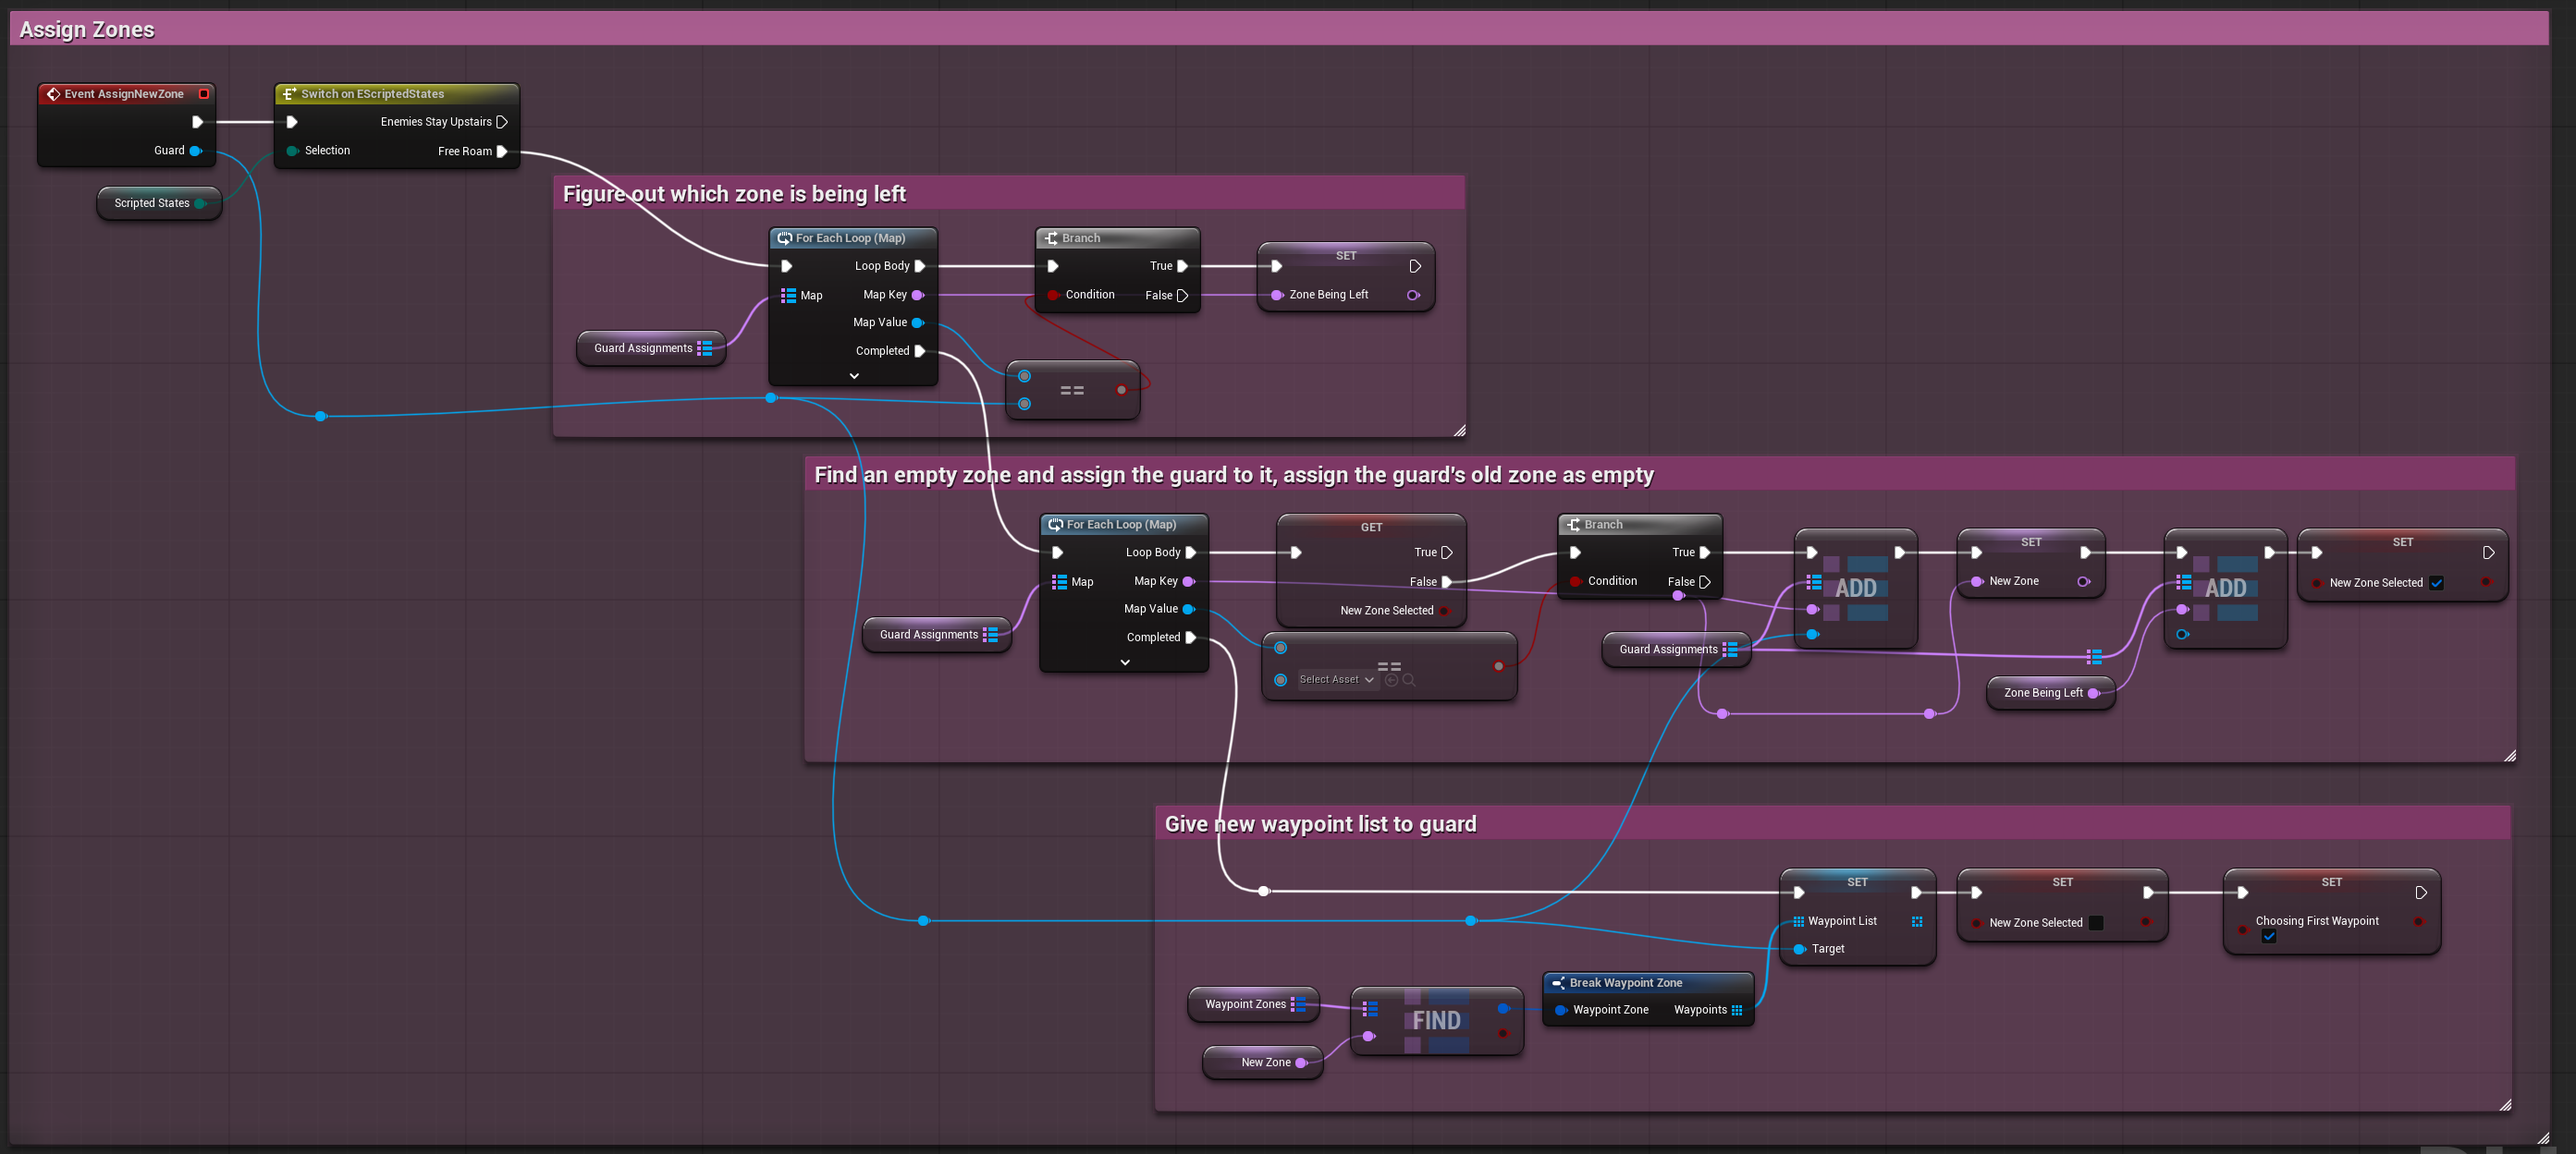
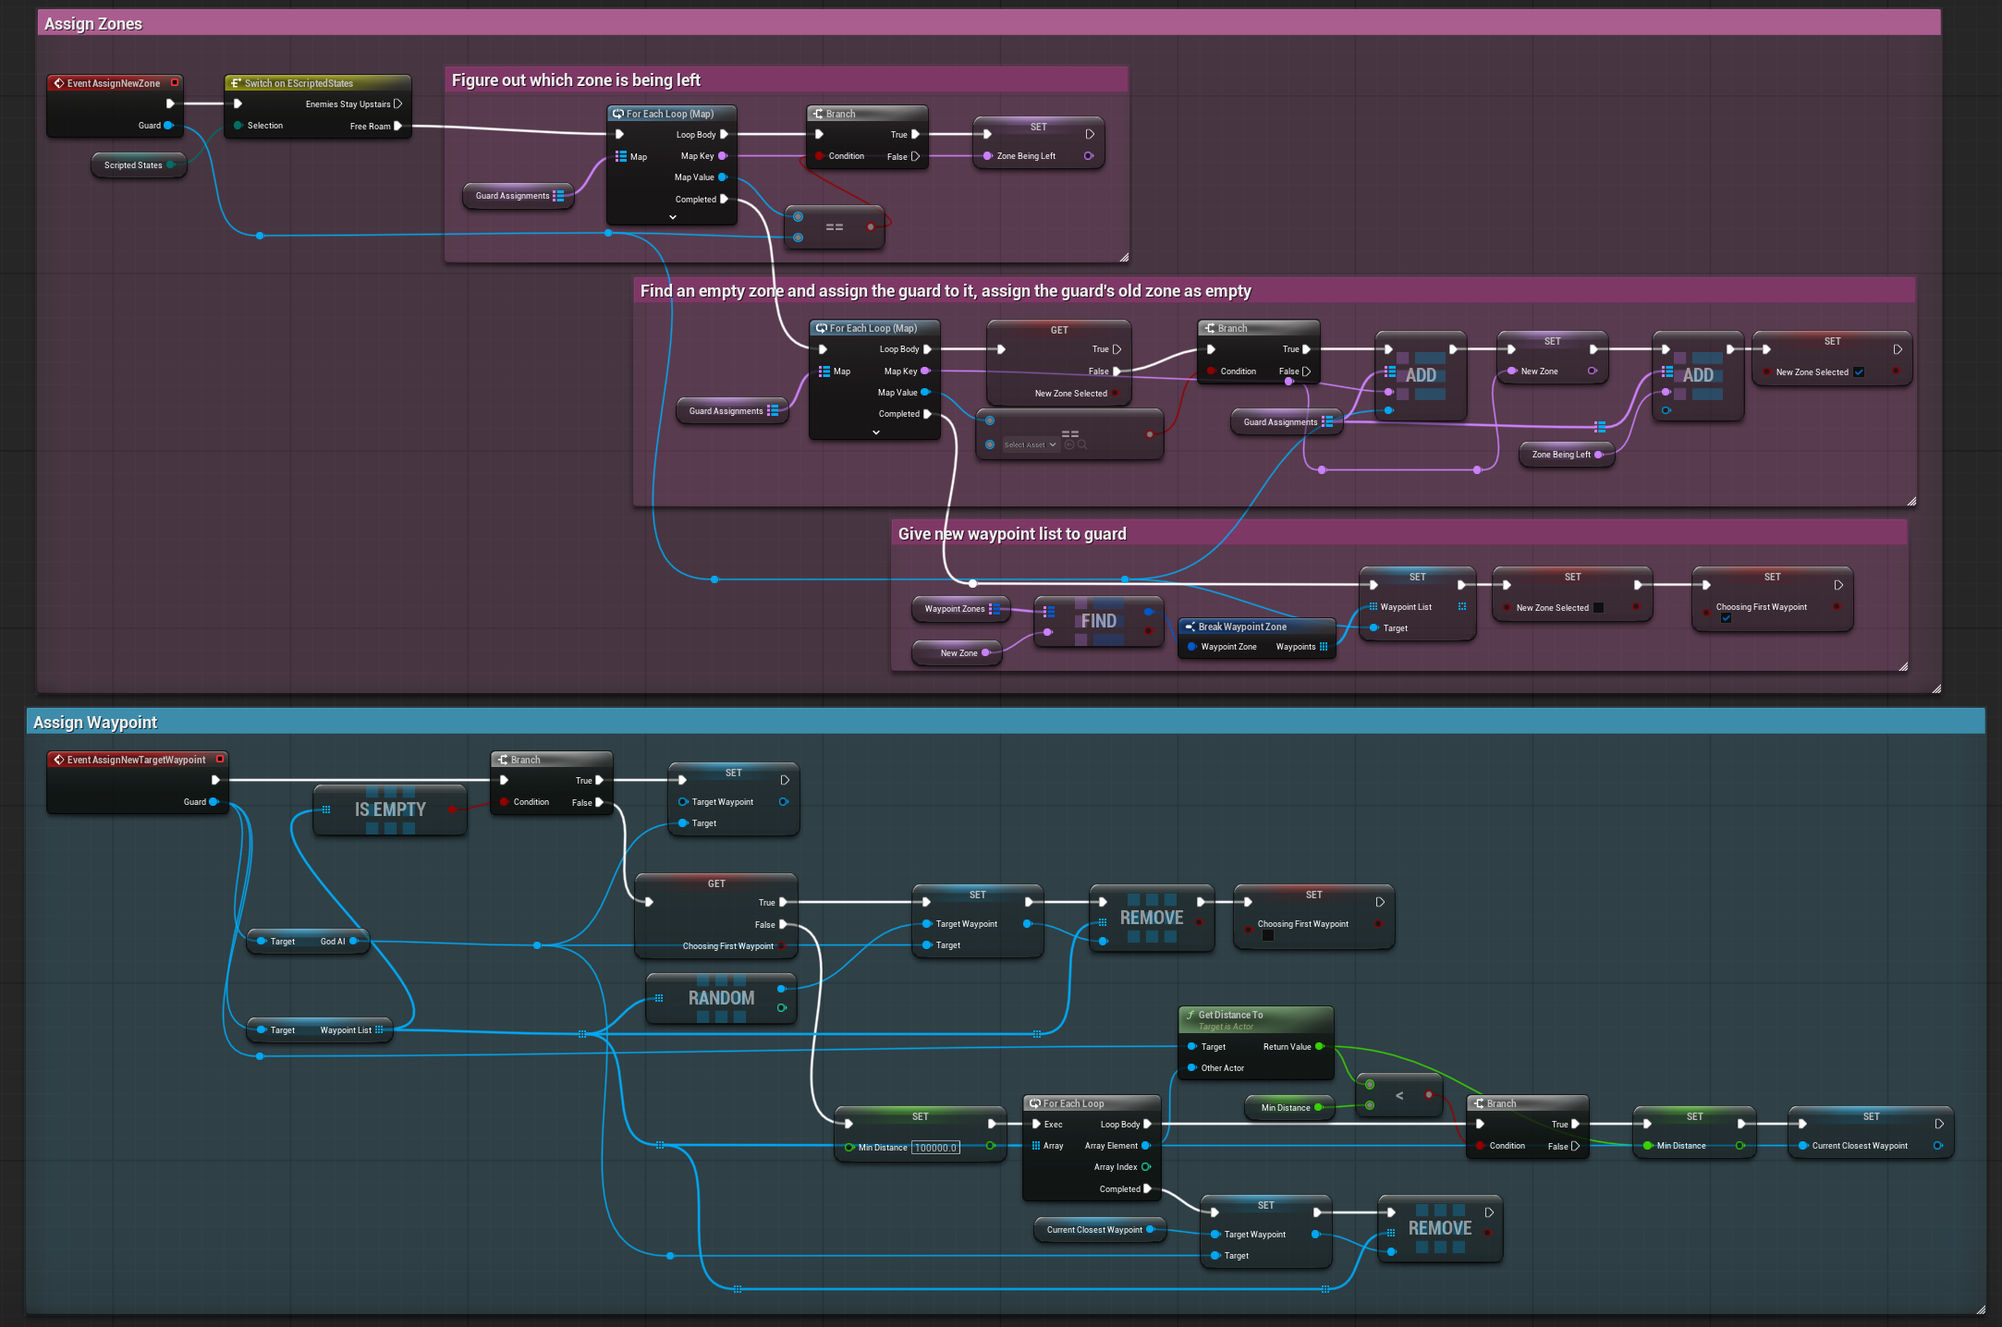
updated picture

diff --git a/content/Projects/Lantern/index.md b/content/Projects/Lantern/index.md
@@ -23,7 +23,7 @@ On this project, I'm primarily working on designing the behavior of the Guards, 
 | ![Describe the image](section-left.jpg) | **Enemy State Tree**<br>I designed and prototyped enemy state trees involving patrol, investigate, and aggro behavior states.|
 | --- | --- |
 
-| **Zone Manager**<br>I created a level-wide movement system where the Guards randomly select an empty "zone" and then choose a random point inside that zone to travel to. They then continue to visit the next closest point until all points in the zone have been visited. They then choose a new empty zone to go to and the process repeats. This allows for somewhat randomized but still rational, telegraphed behavior for the enemy. | ![Gif of Guards moving around a basic level, choosing new waypoints and zones](ZoneManager.png)(SelectWaypoints.png) |
+| **Zone Manager**<br>I created a level-wide movement system where the Guards randomly select an empty "zone" and then choose a random point inside that zone to travel to. They then continue to visit the next closest point until all points in the zone have been visited. They then choose a new empty zone to go to and the process repeats. This allows for somewhat randomized but still rational, telegraphed behavior for the enemy. | ![Gif of Guards moving around a basic level, choosing new waypoints and zones](ZoneManager.png) |
 | --- | --- |
 
 | ![Investigate Behavior GIF](section-left.jpg) | **Investigate Behavior**<br>Using Unreal 5 State Tree, I created an investigative behavior system where after losing sight of the player, the guard investigates points in the surrounding area, including wall cracks that could trigger a quick time event. |
